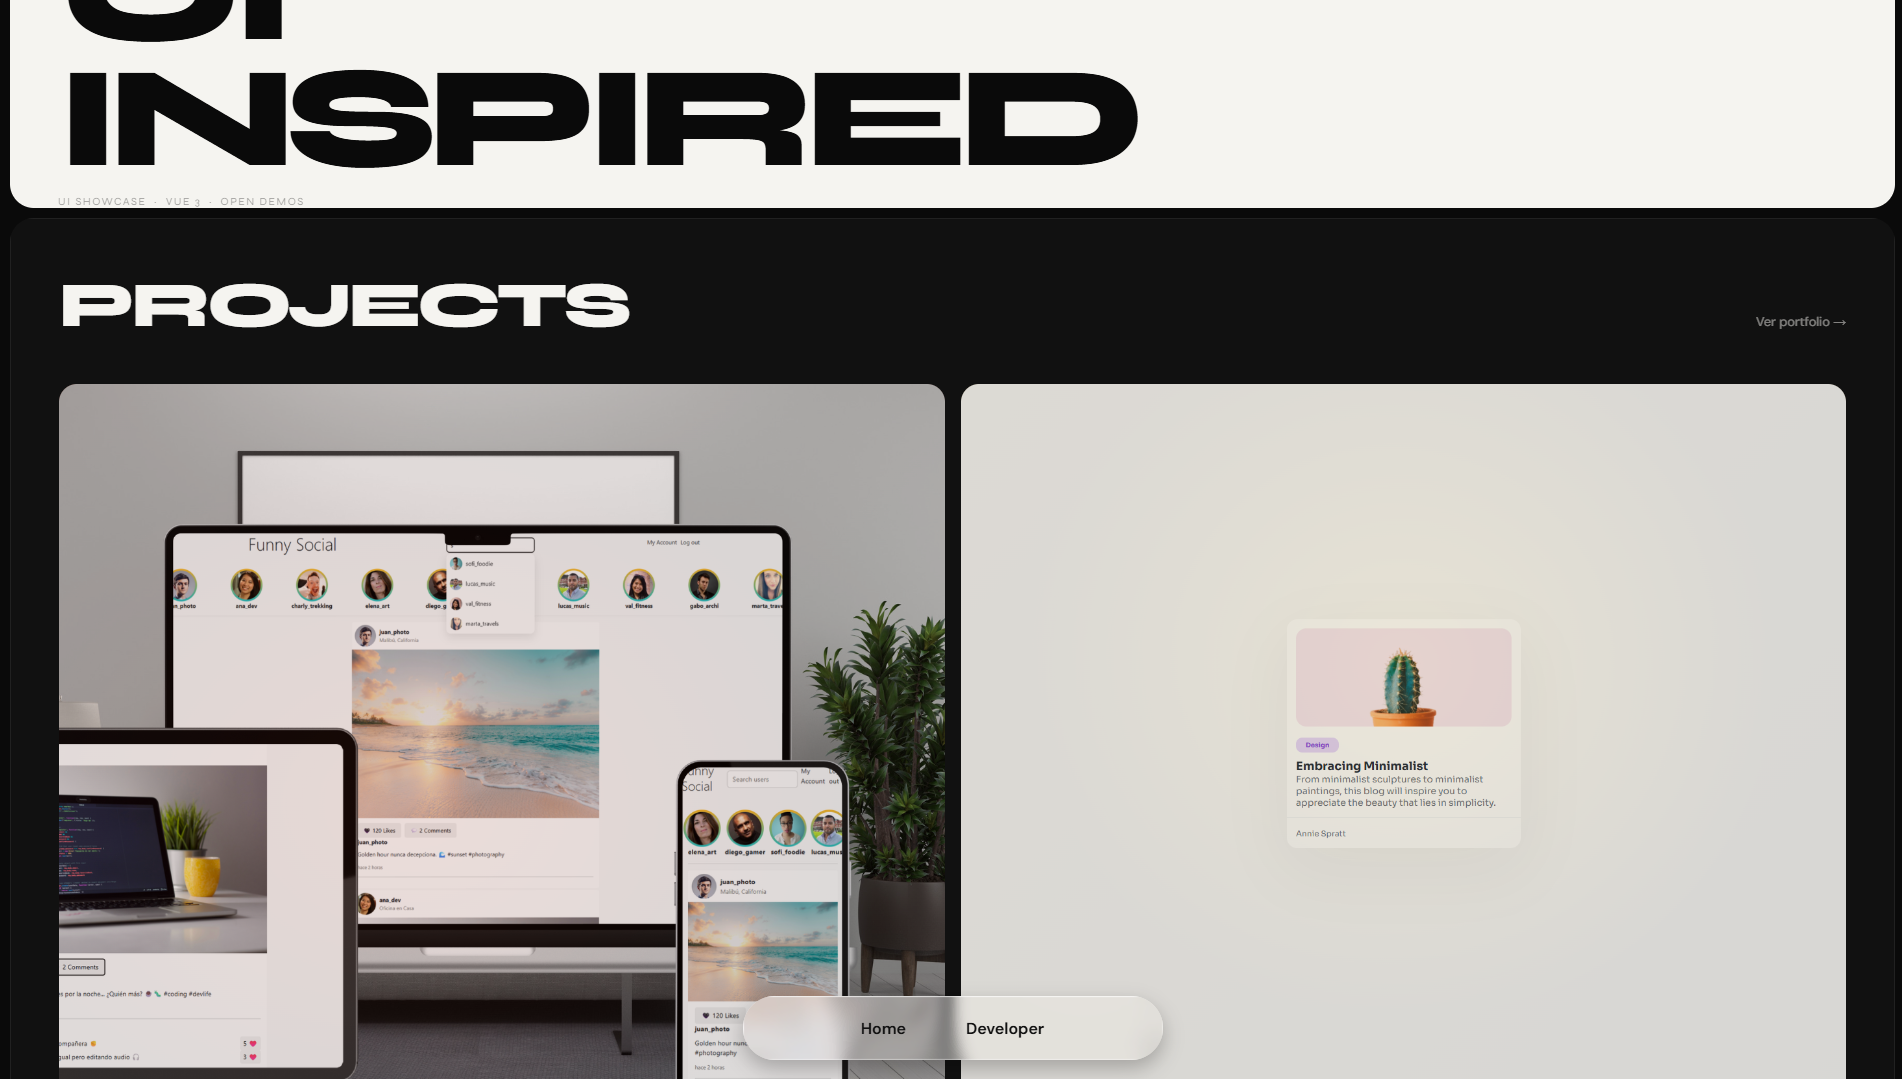
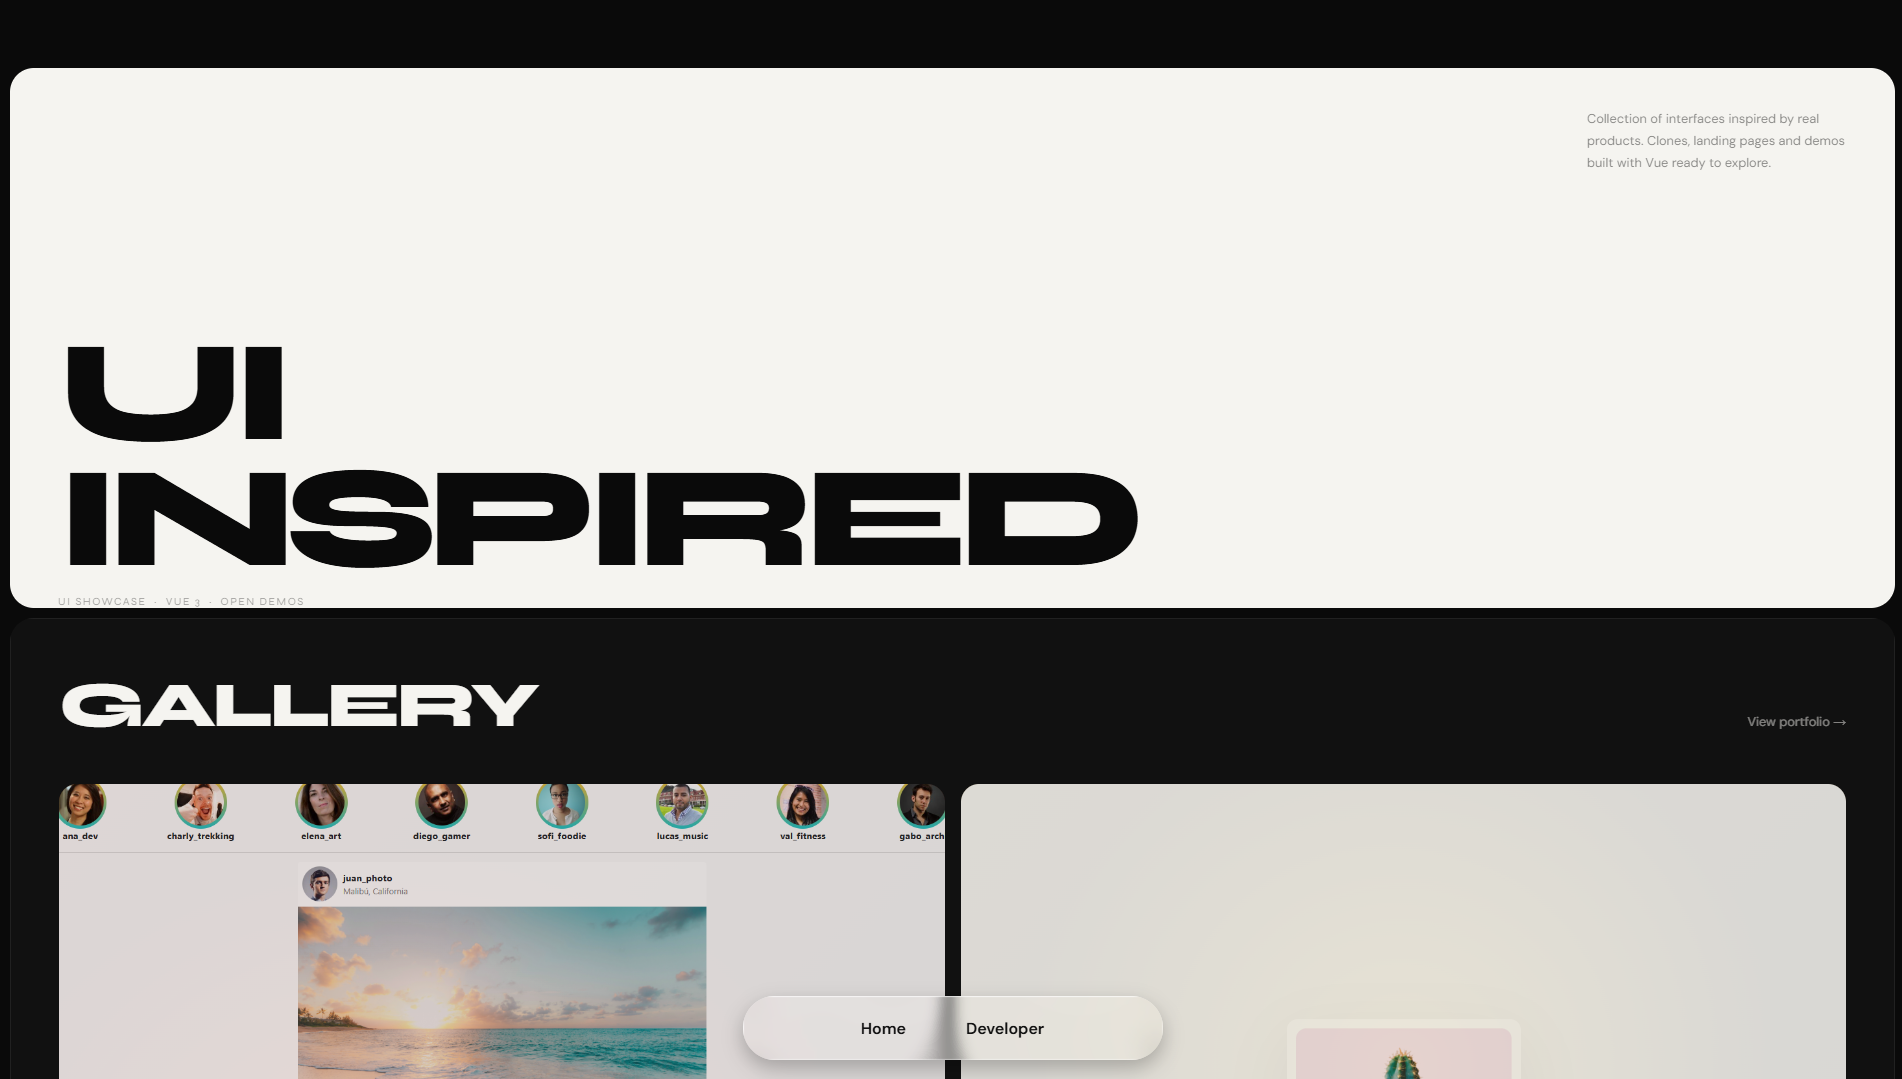
Update about section and adjust styles for improved UI consistency

diff --git a/src/App.jsx b/src/App.jsx
@@ -85,11 +85,7 @@ function App() {
                     <div className="about-content">
                         <h2 className="section-label">About me</h2>
                         <p className="about-text">
-                            I'm a Systems Engineering student and front-end web developer
-                            passionate about creating clean, user-friendly interfaces. I work
-                            with HTML5, CSS3, JavaScript, and Sass, using frameworks like
-                            Bootstrap and React. Currently learning Vue.js to strengthen my
-                            front-end skills and build modern, efficient web applications.
+                            I am a final-year Systems Engineering student and a Full-Stack Web Developer. I bridge the gap between rigorous software architecture and high-performance, responsive user interfaces. With a strong focus on clean code and exceptional UI/UX performance, I build production-ready web applications that balance speed, scalability, and accessibility.
                         </p>
                         <a
                             href="/assets/content/Leonardo-Rengifo-Ramos-CV-2026.pdf"
@@ -107,8 +103,8 @@ function App() {
                             <div className="about-stat-label">Years learning & building</div>
                         </div>
                         <div className="about-stat">
-                            <div className="about-stat-num">∞</div>
-                            <div className="about-stat-label">Curiosity</div>
+                            <div className="about-stat-num">8+</div>
+                            <div className="about-stat-label">Happy clients</div>
                         </div>
                     </div>
                 </section>

diff --git a/src/styles/style.css b/src/styles/style.css
@@ -107,7 +107,7 @@ section {
 .hero-eyebrow::before {
   content: '';
   display: inline-block;
-  width: 24px;
+  width: 10px;
   height: 1px;
   background: var(--muted);
 }
@@ -231,7 +231,7 @@ section {
   font-size: 13px;
   font-weight: 500;
   background-color: var(--accent);
-  color: var(--pill-text);
+  color: rgb(218, 218, 218);
   padding: 10px 18px;
   border-radius: 999px;
   border: 1px solid var(--border);
@@ -244,7 +244,7 @@ section {
   color: var(--bg);
 }
 .btn-download img { width: 16px; opacity: 0.6; }
-.dark-theme .btn-download img { filter: invert(1); }
+
 
 .about-aside {
   display: flex;
